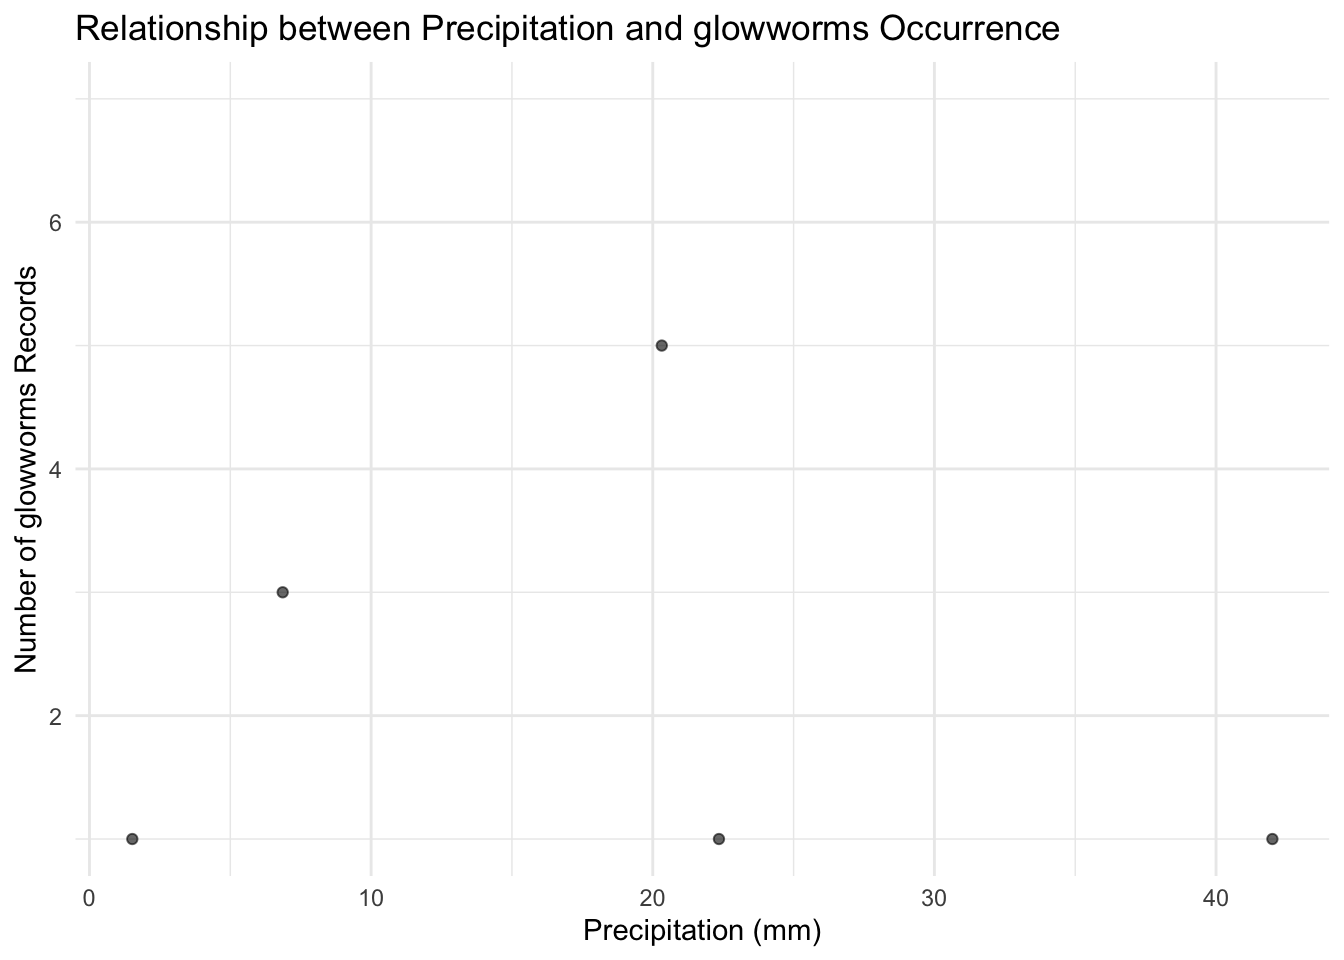
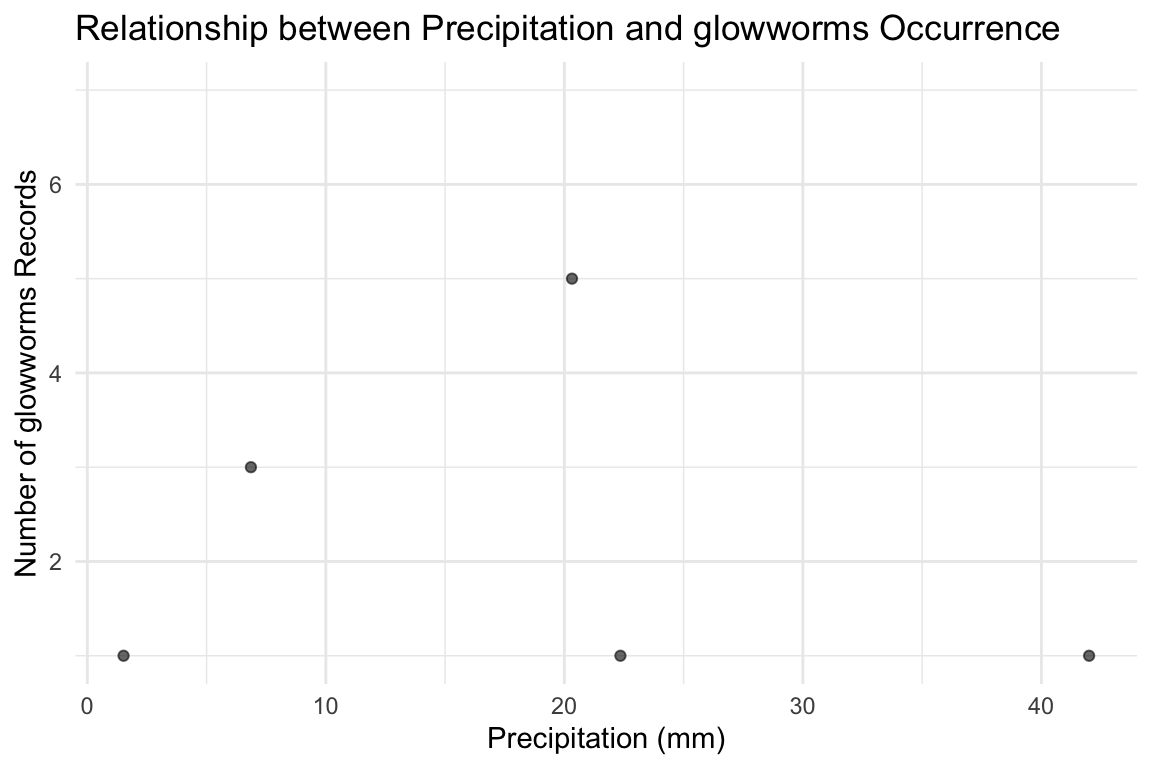
update figures

diff --git a/docs/articles/glowworms.html b/docs/articles/glowworms.html
@@ -210,13 +210,9 @@ $ ws_id       &lt;chr&gt; "949610-99999", "949610-99999", "949610-99999", "94961
 <span>    y <span class="op">=</span> <span class="st">"Number of glowworms Records"</span></span>
 <span>  <span class="op">)</span> <span class="op">+</span></span>
 <span>  <span class="fu"><a href="https://ggplot2.tidyverse.org/reference/ggtheme.html" class="external-link">theme_minimal</a></span><span class="op">(</span><span class="op">)</span></span></code></pre></div>
-<div class="cell-output cell-output-stderr">
-<pre><code>Warning: Removed 91 rows containing missing values or values outside the scale range
-(`geom_point()`).</code></pre>
-</div>
 <div class="cell-output-display">
 <div>
-<figure><p><img src="glowworms_files/figure-html/unnamed-chunk-7-1.png" width="672"></p>
+<figure><p><img src="glowworms_files/figure-html/unnamed-chunk-7-1.png" width="576"></p>
 </figure>
 </div>
 </div>
